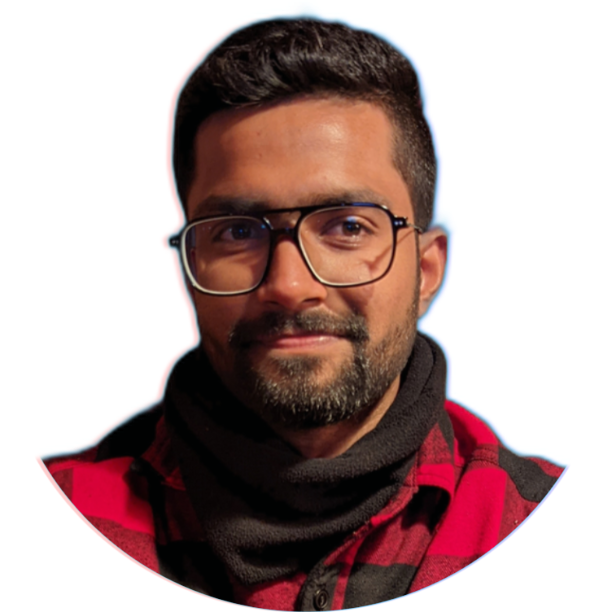
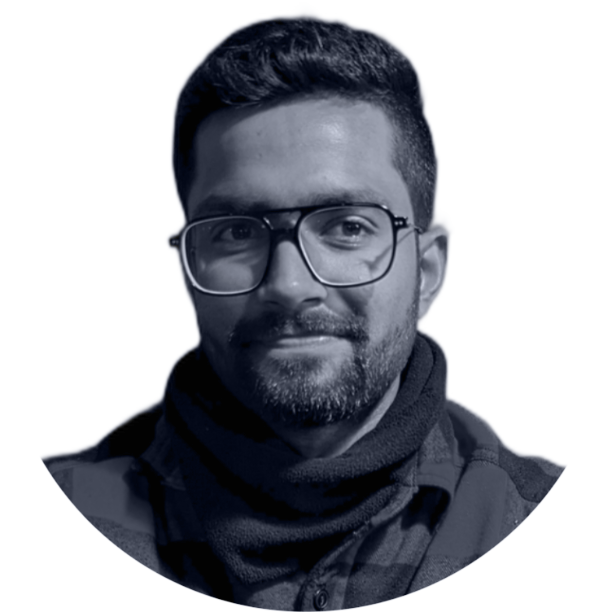
profile image updated and blob css for desktop and tablet is changed

diff --git a/HTML/index.html b/HTML/index.html
@@ -57,7 +57,7 @@
             } 
         }
 
-        /* Tablets */
+        /* Tablets and Desktop */
         @media screen and (min-width: 768px) {
             
             .blob{
@@ -73,24 +73,6 @@
                 margin-bottom: 13px;
             }
             
-        }
-
-        /* DESKTOPS */
-        @media screen and (min-width: 1200px) {
-            
-            .blob{
-                overflow: hidden;
-                width: 9rem;
-                height: 9rem;
-                border-radius: 42% 56% 72% 28% / 42% 42% 56% 48%;
-                background: #38F23C url(images/profile_image.png);
-                background-size: cover;
-                background-position: center;
-                animation: morph 3.75s linear infinite;
-                margin: 0 auto;
-                margin-bottom: 13px;
-            }
-                
         }
 
 		/* BODY BACKGROUND */
@@ -115,7 +97,7 @@
         <div class="content">
             
             <!-- PROFILE IMAGE -->
-            <img class="blob" src="images/profile_image.png" alt="profile image of Adam"/>
+            <img class="blob small" src="images/profile_image.png" alt="my profile image"/>
             
             <!-- TITLE -->
             <h1>
